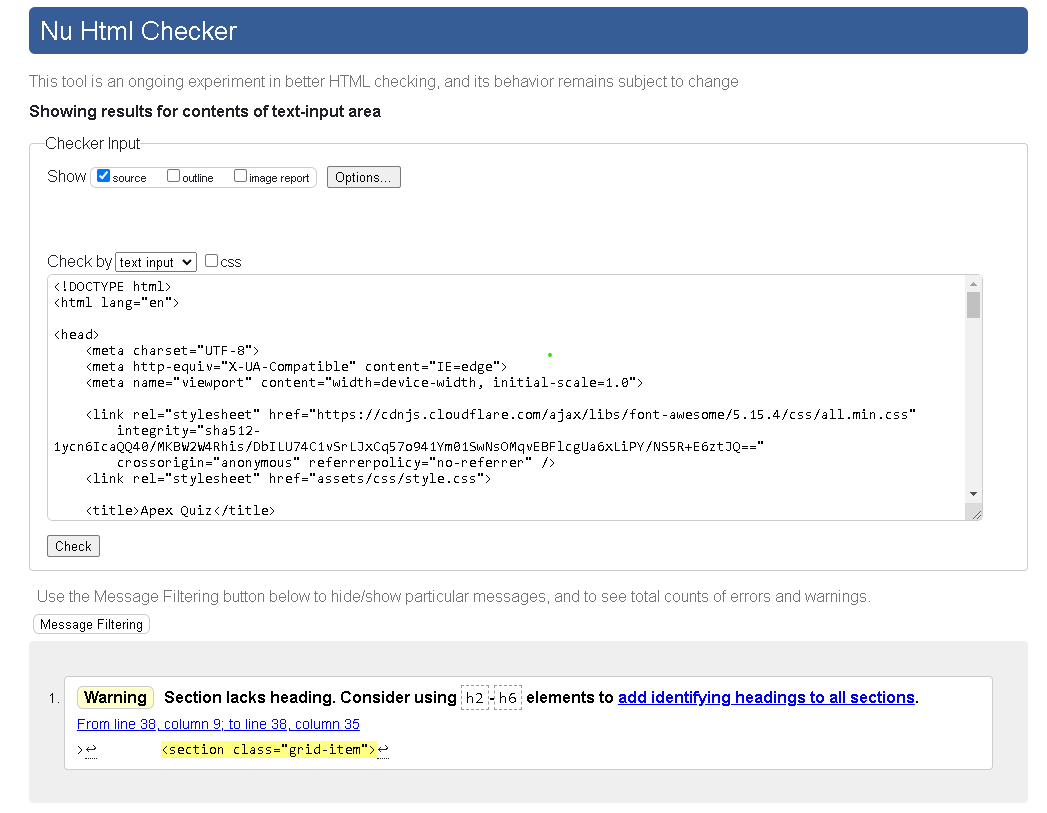
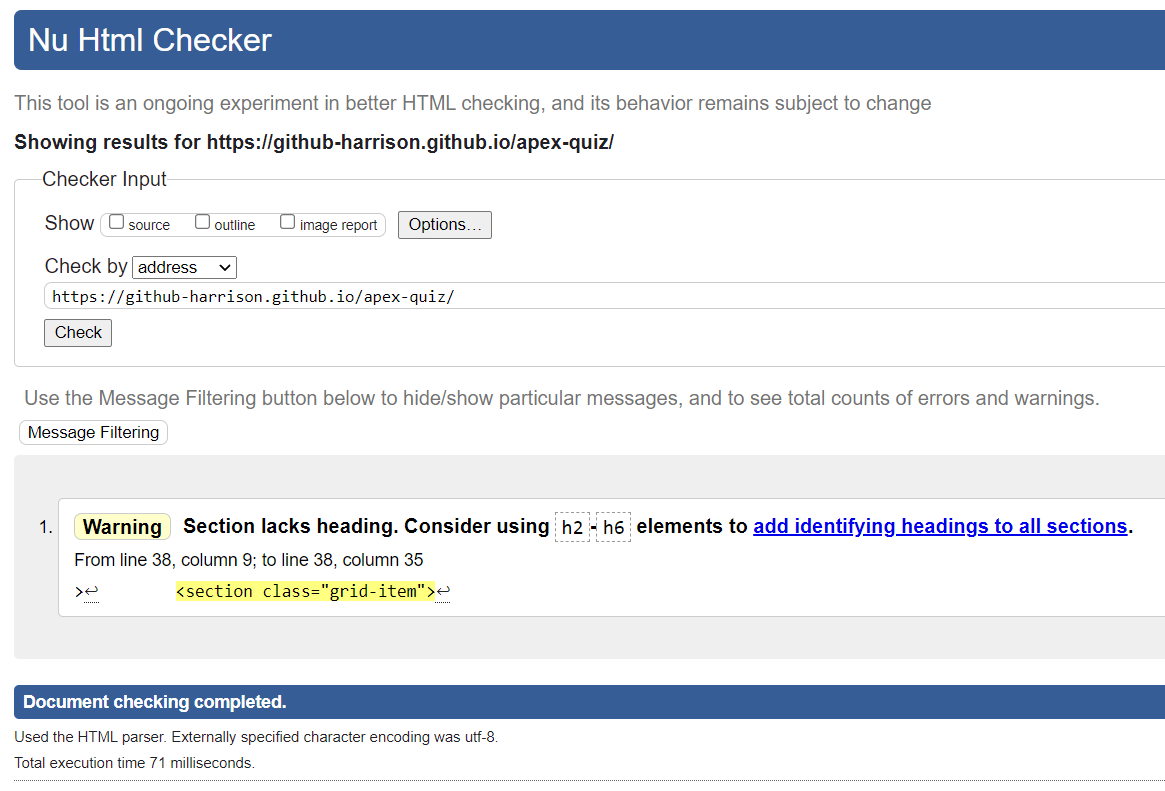
Docs: Add 'Technologies Used' to readme.md and update screenshots

diff --git a/README.md b/README.md
@@ -124,8 +124,8 @@ Instead of taking screenshots for each test done, instead I recorded a video of 
 
 ## Validator Testing
 * HTML
-    * No errors were found when I ran my code through the official [W3C Validator](https://validator.w3.org/nu/?doc=https%3A%2F%2Fgithub-harrison.github.io%2Fapex-quiz%2F)
-    * Below are screen shots of both the index.html and quiz.html validator tests by direct input.
+    * No errors but 1 warning was found when I ran my index.html code through the official [W3C Validator](https://validator.w3.org/nu/?doc=https%3A%2F%2Fgithub-harrison.github.io%2Fapex-quiz%2F)
+    * No errors but 2 warnings were found when I ran my quiz.html code through the official [W3C Validator](https://validator.w3.org/nu/?doc=https%3A%2F%2Fgithub-harrison.github.io%2Fapex-quiz%2Fquiz.html)
 
 ![HTML index.html Validator](documentation/readme-screenshots/html-index-validator.png)
 ![HTML quiz.html Validator](documentation/readme-screenshots/quiz-html-validator.png)
@@ -149,9 +149,13 @@ Instead of taking screenshots for each test done, instead I recorded a video of 
 * Below are some screenshots of what the project looks like on different browsers/screensizes.
 
 ![Firefox landing page](documentation/readme-screenshots/home-firefox.png)
+
 ![Firefox Quiz Area](documentation/readme-screenshots/quiz-game-area-firefox.png)
+
 ![Brave Quiz Area](documentation/readme-screenshots/quiz-game-area-brave.png)
+
 ![Brave Inspect iPhone X](documentation/readme-screenshots/iphone-x-brave-inspect.png)
+
 ![Huawei chrome browser](documentation/readme-screenshots/huawei-chrome.png)
 ## Deployment
 * The site was deployed to GitHub pages. The steps to deploy are as follows:
